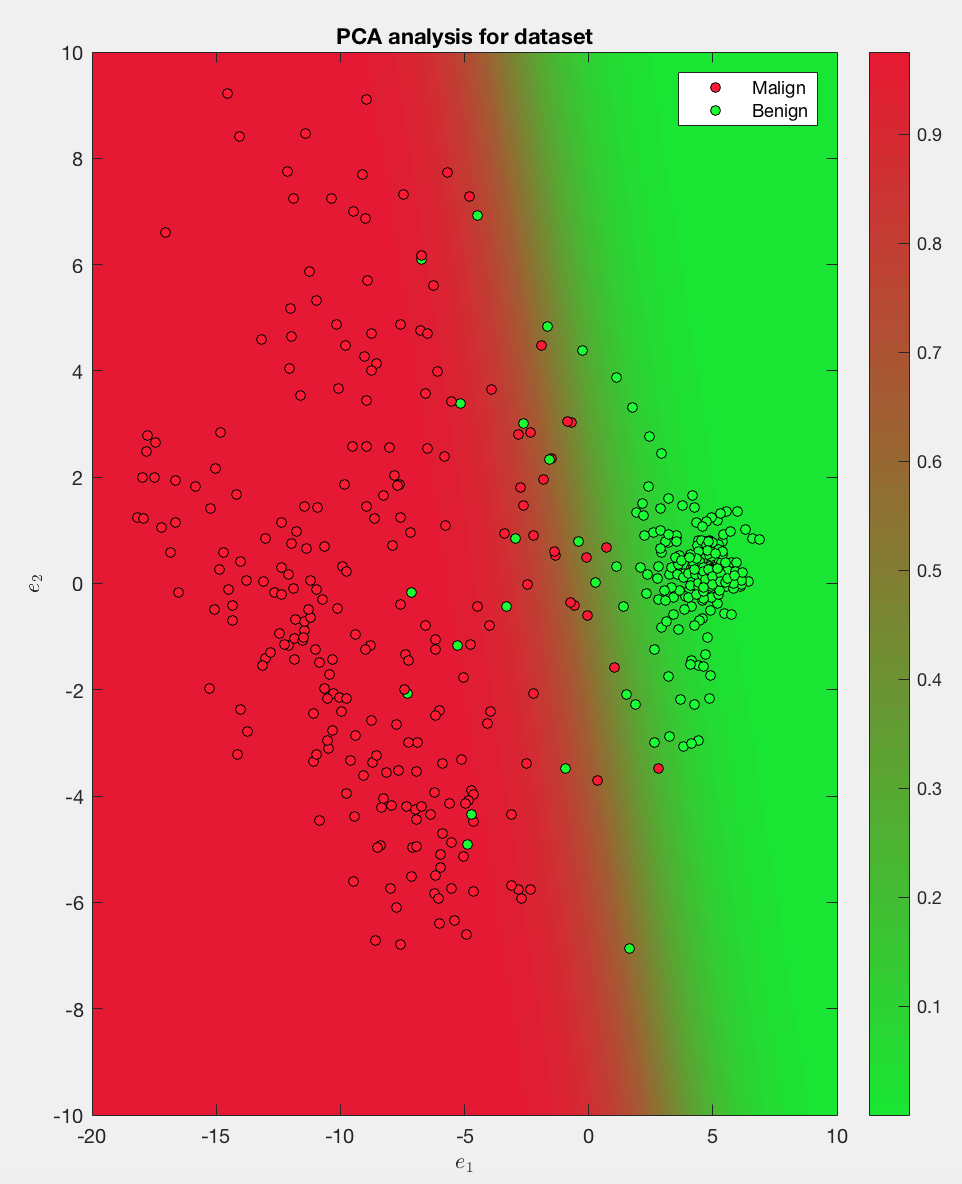
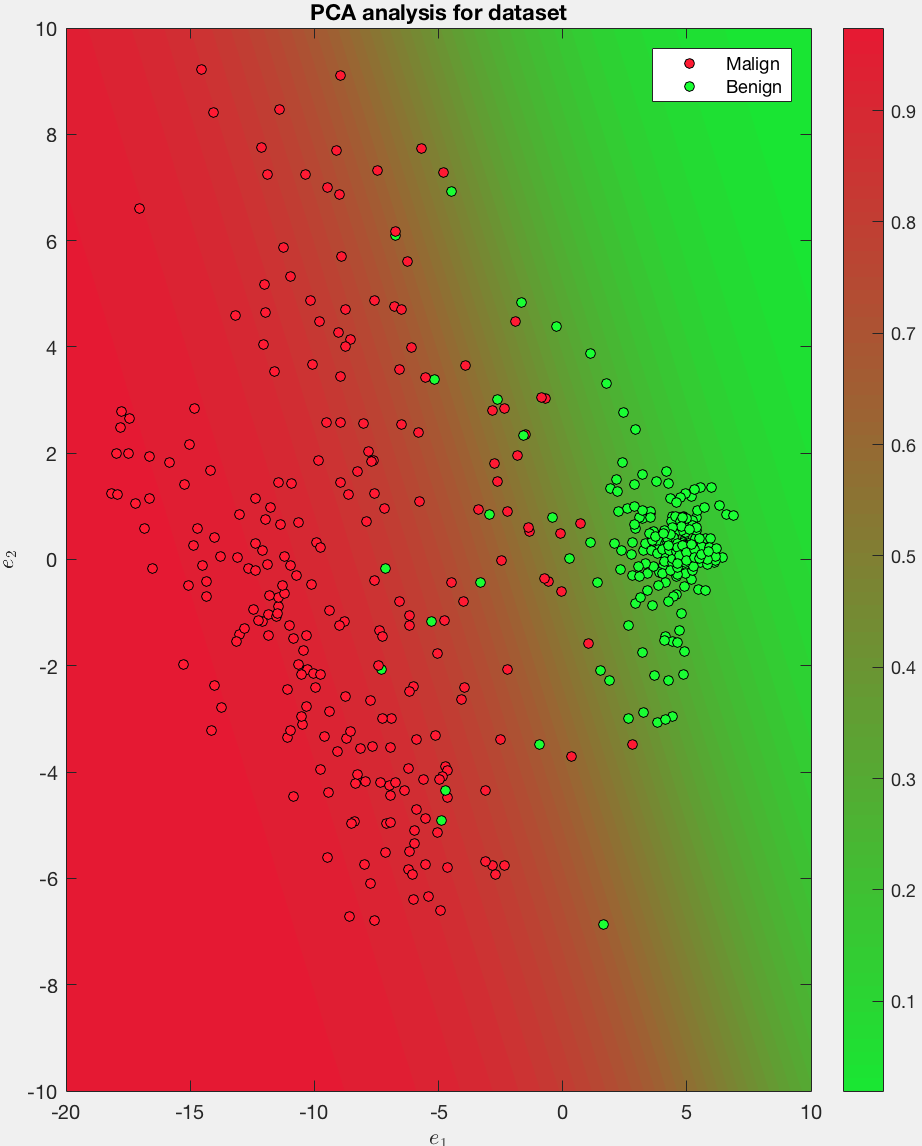
Adds figure

diff --git a/main.m b/main.m
@@ -18,8 +18,8 @@ ds = readtable(strcat(dataset_name,'.csv'));
 %visualize_data(ds, is);
 
 % IRLS solution vizualisation 
-[w, lc] = irls(ds, is); 
-visualize_solution(w(1:is), ds, is, lc, 'L2');
+[w, lc] = irls(ds, is,'L1'); 
+visualize_solution(w(1:is), ds, is, lc, 'L1');
 
 %% F-fold CV  %%TODO
 %fold

diff --git a/methods/irls.m b/methods/irls.m
@@ -19,7 +19,7 @@ loss = 0;
 loss_array = zeros(max_iter,1);
 cor_hessian = 0.0001;
 lambda_l1 = 2;
-lambda_l2 = 4;
+lambda_l2 = 5;
 
 %% init
 w = zeros(input_size+1,1); % zero init
